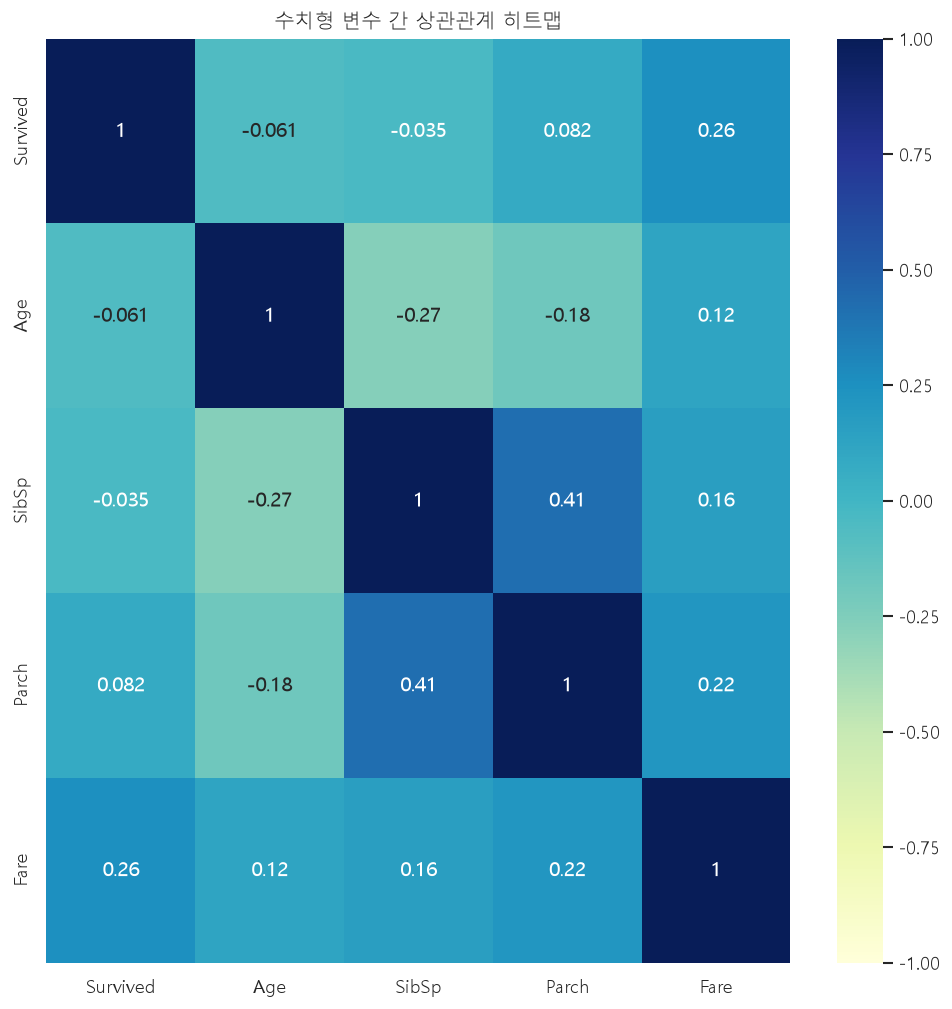
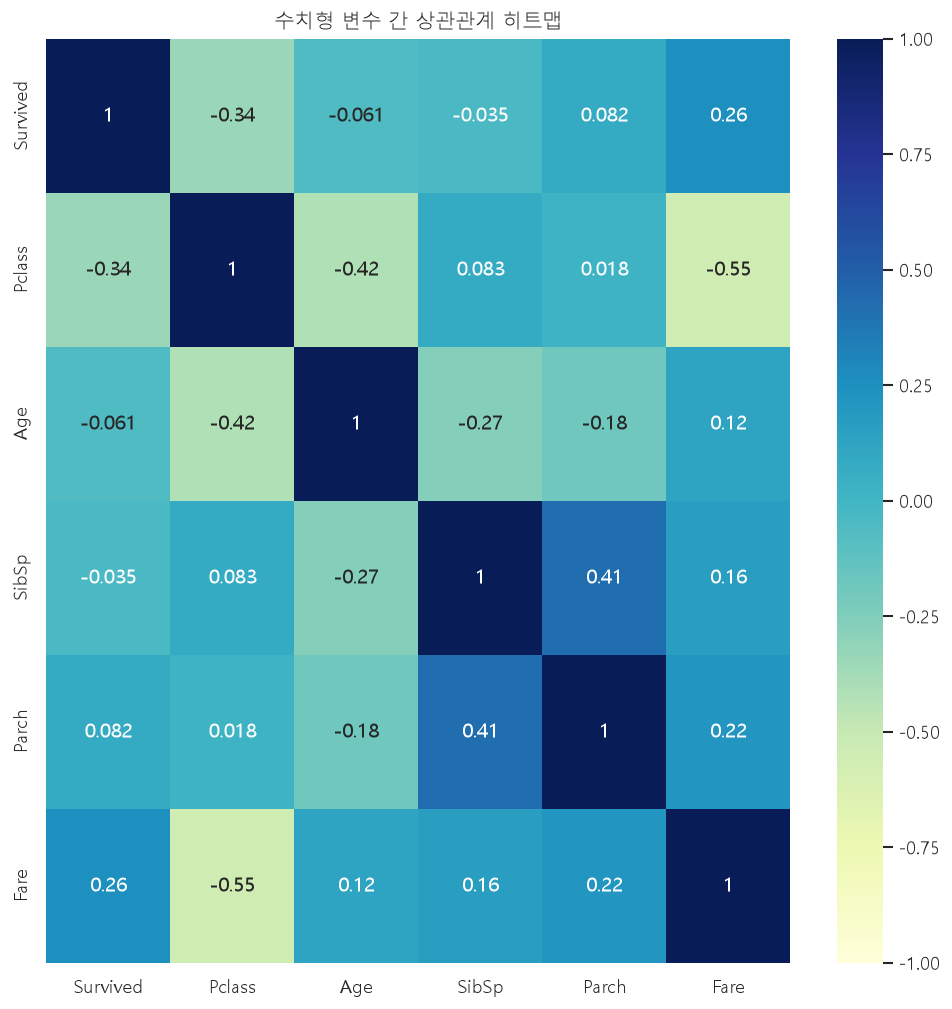
데이터 분석 과제 (최종 완료)

diff --git a/assignment/titanic.py b/assignment/titanic.py
@@ -187,9 +187,9 @@ print()
 sex_and_pclass = df.copy().groupby(["Sex", "Pclass"])
 survived_rate = round(sex_and_pclass["Survived"].mean(), 2)
 survived_rate_pct = round(sex_and_pclass["Survived"].mean() * 100, 2)
-print(f"생존률\n{survived_rate}")
+print(f"생존율\n{survived_rate}")
 print("-" * 40)
-print(f"생존률(%)\n{survived_rate_pct}")
+print(f"생존율(%)\n{survived_rate_pct}")
 print()
 
 # ===========================================================================
@@ -200,9 +200,9 @@ print()
 agegroup = np_where.copy().groupby("AgeGroup")
 survived_rate = round(agegroup["Survived"].mean(), 2)
 survived_rate_pct = round(agegroup["Survived"].mean() * 100, 2)
-print(f"생존률\n{survived_rate}")
+print(f"생존율\n{survived_rate}")
 print()
-print(f"생존률(%)\n{survived_rate_pct}")
+print(f"생존율(%)\n{survived_rate_pct}")
 print()
 
 # ===========================================================================
@@ -426,7 +426,7 @@ print(f"대치 후 Age 컬럼 결측: {df['Age'].isnull().sum()}개")
      형식으로 작성하면 값이 셀 안에 표시됩니다.
   - 결과를 화면에 출력하지 않고 이미지 파일로 저장하시오. (`savefig` 사용)
 """
-NUM_COLS = ["Survived", "Age", "SibSp", "Parch", "Fare"]
+NUM_COLS = ["Survived", "Pclass", "Age", "SibSp", "Parch", "Fare"]
 pearson = df[NUM_COLS].corr()
 
 fig, ax = plt.subplots(figsize=(10, 10))
